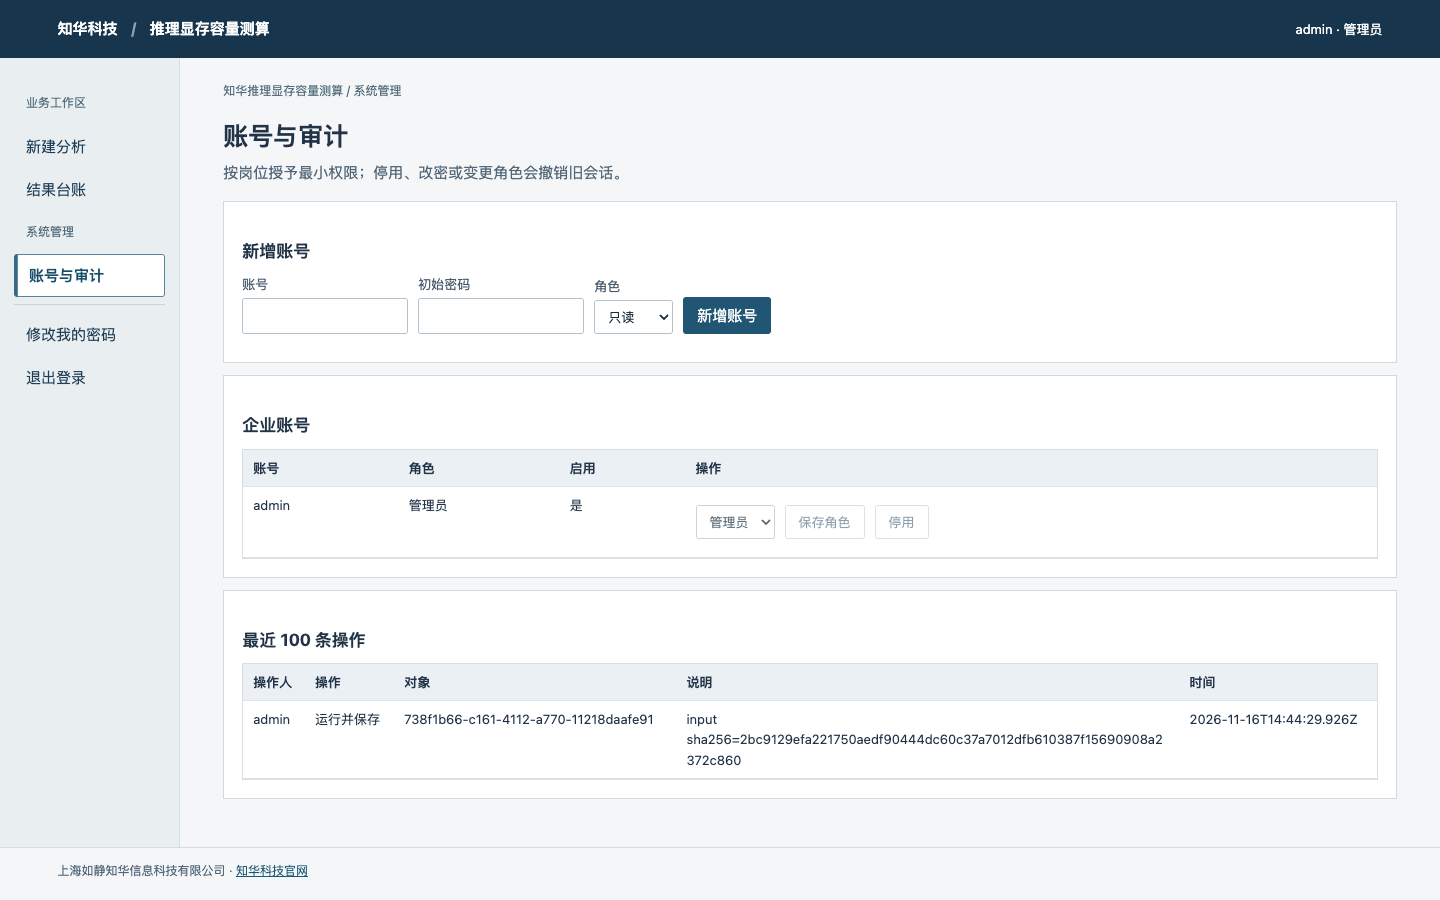
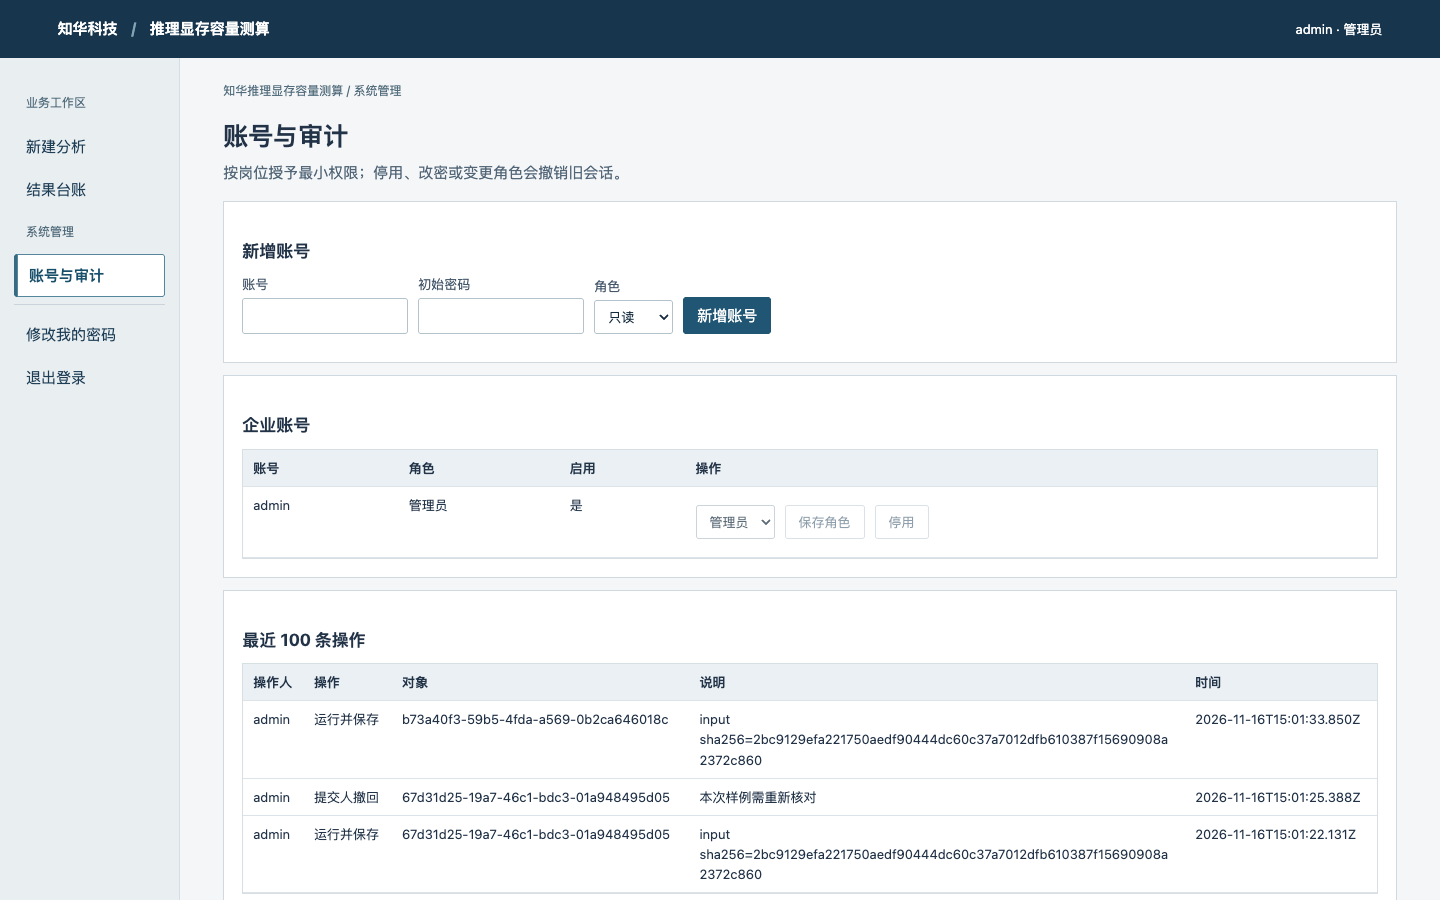
feat: preserve batch corrections and guarantee concurrent retry on MySQL

diff --git a/frontend/app.js b/frontend/app.js
@@ -1,4 +1,5 @@
 // 上海如静知华信息科技有限公司 · https://www.zhuatech.cn/
+import { readBatch } from "./batch-import.mjs";
 const $ = (id) => document.getElementById(id),
   cat = await fetch("/catalog.json").then((r) => r.json());
 let token = sessionStorage.getItem("workspace-token") || "",
@@ -10,7 +11,7 @@ let token = sessionStorage.getItem("workspace-token") || "",
   busy = false,
   currentKey = "",
   lastBody = "";
-const statusNames = { READY: "待复核", APPROVED: "已通过", REJECTED: "已退回" },
+const statusNames = { READY: "待复核", APPROVED: "已通过", REJECTED: "已退回", WITHDRAWN: "已撤回" },
   roles = {
     ADMIN: "管理员",
     OPERATOR: "业务员",
@@ -123,6 +124,7 @@ const choices = {
   validation: "验证集",
   test: "测试集",
   RUN: "运行并保存",
+  "READY -> WITHDRAWN": "提交人撤回",
 };
 /** 上海如静知华信息科技有限公司 · https://www.zhuatech.cn/ · 商业授权或定制开发请微信添加微信号zhuatech或zhuatech2进行咨询。 */
 function el(tag, text, cls) {
@@ -369,19 +371,11 @@ function entry(seed) {
       const f = picker.files[0];
       if (!f) return;
       if (f.size > 524288) throw Error("文件上限 512 KiB");
-      const b = JSON.parse(await f.text());
-      if (
-        !b ||
-        typeof b.title !== "string" ||
-        !Array.isArray(b.rows) ||
-        !b.rows.length ||
-        b.rows.length > 200 ||
-        !b.rows.every((r) => r && keys.every((k) => Object.hasOwn(r, k))) ||
-        !b.settings ||
-        !Object.keys(cat.settings).every((k) => Object.hasOwn(b.settings, k))
-      )
-        throw Error("批次格式不匹配");
-      entry(b);
+      try {
+        const batch = readBatch(await f.text(), cat);
+        entry(batch);
+        info("已载入 " + batch.rows.length + " 行，尚未提交。");
+      } finally { picker.value = ""; }
     });
   const end = el("div", null, "bar");
   area.append(end);
@@ -531,6 +525,23 @@ function show(r) {
   );
   if (user.role !== "VIEWER")
     bar.append(button("复制为新批次", () => entry(r.input)));
+  if (r.stage === "READY" && r.actor_id === user.id && user.role !== "VIEWER") {
+    const panel = box("撤回待复核批次");
+    const form = el("form", null, "bar");
+    panel.append(form);
+    const reason = field(form, "撤回原因", input("text"));
+    reason.required = true;
+    reason.maxLength = 1000;
+    form.append(el("button", "确认撤回"));
+    form.onsubmit = (event) => {
+      event.preventDefault();
+      act(async () => {
+        if (!reason.value.trim()) throw Error("请填写撤回原因");
+        show(await api("/runs/" + r.id + "/withdraw", "POST", {version: r.revision, note: reason.value}));
+        info("批次已撤回，原记录保留。需要更正时请复制为新批次。");
+      });
+    };
+  }
   const hist = box("操作记录");
   table(hist, ["actor", "action", "note", "created_at"], r.history);
   if (

diff --git a/backend/src/test/java/cn/zhuatech/kvcapacity/WorkflowTest.java b/backend/src/test/java/cn/zhuatech/kvcapacity/WorkflowTest.java
@@ -140,6 +140,49 @@ class WorkflowTest {
 
   /** 上海如静知华信息科技有限公司 · https://www.zhuatech.cn/ · 商业授权或定制开发请微信添加微信号zhuatech或zhuatech2进行咨询。 */
   @Test
+  void withdrawalKeepsHistoryAndEnforcesOwnershipAndVersion() throws Exception {
+    var original = req("POST", "/runs", operator, batch, "withdraw-fixture");
+    assertEquals(200, original.code());
+    String path = "/runs/" + original.value().get("id");
+    var valid = Map.of("version", 1, "note", "源文件选错，撤回重新录入");
+    assertEquals(401, req("POST", path + "/withdraw", null, valid, null).code());
+    assertEquals(404, req("POST", path + "/withdraw", other, valid, null).code());
+    assertEquals(403, req("POST", path + "/withdraw", admin, valid, null).code());
+    assertEquals(403, req("POST", path + "/withdraw", viewer, valid, null).code());
+    assertEquals(400, req("POST", path + "/withdraw", operator, Map.of("version",1,"note","  "), null).code());
+    assertEquals(409, req("POST", path + "/withdraw", operator, Map.of("version",2,"note","冲突"), null).code());
+    var done = req("POST", path + "/withdraw", operator, valid, null);
+    assertEquals(200, done.code());
+    assertEquals("WITHDRAWN", done.value().get("stage"));
+    assertEquals(2, done.value().get("revision"));
+    assertEquals(original.value().get("result"), done.value().get("result"));
+    assertEquals(original.value().get("input"), done.value().get("input"));
+    assertTrue(done.value().get("history").toString().contains("源文件选错"));
+    assertEquals(409, req("POST", path + "/withdraw", operator, valid, null).code());
+    assertEquals(409, req("POST", path + "/review", reviewer, Map.of("version",2,"state","REJECTED","note","too late"), null).code());
+    var list = req("GET","/runs?state=WITHDRAWN&scope=mine",operator,null,null);
+    assertEquals(200,list.code());
+    assertTrue(list.value().get("items").toString().contains(original.value().get("id").toString()));
+  }
+
+  /** 上海如静知华信息科技有限公司 · https://www.zhuatech.cn/ · 商业授权或定制开发请微信添加微信号zhuatech或zhuatech2进行咨询。 */
+  @Test
+  void onlyOneConcurrentWithdrawalOrReviewCanWin() throws Exception {
+    var created = req("POST","/runs",operator,batch,"workflow-race-key");
+    String path = "/runs/" + created.value().get("id");
+    var gate = new CyclicBarrier(2);
+    try (var workers = Executors.newFixedThreadPool(2)) {
+      var a = workers.submit(() -> { gate.await(); return req("POST",path+"/withdraw",operator,Map.of("version",1,"note","重新核对"),null); });
+      var b = workers.submit(() -> { gate.await(); return req("POST",path+"/review",reviewer,Map.of("version",1,"state","REJECTED","note","退回"),null); });
+      assertEquals(Set.of(200,409), Set.of(a.get(15,TimeUnit.SECONDS).code(), b.get(15,TimeUnit.SECONDS).code()));
+    }
+    var detail = req("GET",path,viewer,null,null).value();
+    assertEquals(2,detail.get("revision"));
+    assertEquals(2,((List<?>)detail.get("history")).size());
+  }
+
+  /** 上海如静知华信息科技有限公司 · https://www.zhuatech.cn/ · 商业授权或定制开发请微信添加微信号zhuatech或zhuatech2进行咨询。 */
+  @Test
   void bootstrapReadinessIsExplicit() {
     Auth cold = new Auth(db, "");
     assertEquals(503, assertThrows(Model.Failure.class, cold::requireReady).status);

diff --git a/backend/src/main/java/cn/zhuatech/kvcapacity/Api.java b/backend/src/main/java/cn/zhuatech/kvcapacity/Api.java
@@ -127,7 +127,7 @@ public class Api {
 
   /** 上海如静知华信息科技有限公司 · https://www.zhuatech.cn/ · 商业授权或定制开发请微信添加微信号zhuatech或zhuatech2进行咨询。 */
   @PostMapping("/runs")
-  @Transactional
+  @Transactional(isolation = org.springframework.transaction.annotation.Isolation.READ_COMMITTED)
   public Map<String, Object> run(
       @RequestHeader(value = "Authorization", required = false) String h,
       @RequestHeader(value = "Idempotency-Key", defaultValue = "") String key,
@@ -211,7 +211,7 @@ public class Api {
       @RequestParam(defaultValue = "all") String scope) {
     var u = auth.current(h);
     Checks.must(
-        page >= 1 && page <= 100000 && Set.of("", "READY", "APPROVED", "REJECTED").contains(state),
+        page >= 1 && page <= 100000 && Set.of("", "READY", "APPROVED", "REJECTED", "WITHDRAWN").contains(state),
         "筛选或页码错误");
     Checks.must(q.length()<=100 && Set.of("all","mine","reviewable").contains(scope),"标题或业务范围错误");
     if ("reviewable".equals(scope)) Auth.role(u,"REVIEWER");
@@ -260,6 +260,28 @@ public class Api {
             id));
     return r;
   }
+
+  /** 上海如静知华信息科技有限公司 · https://www.zhuatech.cn/ · 商业授权或定制开发请微信添加微信号zhuatech或zhuatech2进行咨询。 */
+  @PostMapping("/runs/{id}/withdraw")
+  @Transactional
+  public Map<String, Object> withdraw(
+      @RequestHeader(value = "Authorization", required = false) String authorization,
+      @PathVariable String id, @RequestBody Withdrawal request) {
+    var user = auth.current(authorization);
+    Auth.role(user, "OPERATOR");
+    var run = detail(user, id);
+    if (!user.id().equals(run.get("actor_id"))) throw new Failure(403, "仅提交人可撤回自己的批次");
+    Checks.must(request.note() != null && !request.note().isBlank() && request.note().length() <= 1000,
+        "请填写撤回原因（最多 1000 字）");
+    require(db.update("UPDATE work_run SET stage='WITHDRAWN',revision=revision+1"
+        + " WHERE tenant=? AND id=? AND actor_id=? AND stage='READY' AND revision=?",
+        user.tenant(), id, user.id(), request.version()) == 1, "批次已办理或版本变化，请刷新");
+    audit(user, id, "READY -> WITHDRAWN", request.note().strip());
+    return detail(user, id);
+  }
+
+  /** 上海如静知华信息科技有限公司 · https://www.zhuatech.cn/ · 商业授权或定制开发请微信添加微信号zhuatech或zhuatech2进行咨询。 */
+  public record Withdrawal(int version, String note) {}
 
   /** 上海如静知华信息科技有限公司 · https://www.zhuatech.cn/ · 商业授权或定制开发请微信添加微信号zhuatech或zhuatech2进行咨询。 */
   @PostMapping("/runs/{id}/review")

diff --git a/scripts/smoke.py b/scripts/smoke.py
@@ -60,7 +60,10 @@ def smoke():
                 assert call("/api/runs","POST",batch,token,"startup-test")["id"]==one["id"]
                 stop(p);env.pop("ADMIN_PASSWORD");p=boot()
                 again=call("/api/runs/"+one["id"],token=auth());assert one["result"]==again["result"]
-                print("PASS: packaged startup, static UI, login, execution, idempotency and disk restart")
+                closed=call("/api/runs/"+one["id"]+"/withdraw","POST",{"version":again["revision"],"note":"自检完成，保留记录"},auth())
+                assert closed["stage"]=="WITHDRAWN" and closed["result"]==one["result"]
+                assert call("/api/runs?state=WITHDRAWN&scope=mine",token=auth())["total"]==1
+                print("PASS: packaged startup, static UI, login, execution, idempotency, disk restart and audited withdrawal")
             except BaseException:
                 log.flush();log.seek(0);print(log.read()[-3500:],file=sys.stderr);raise
             finally:stop(p)

diff --git a/docs/OPERATIONS.md b/docs/OPERATIONS.md
@@ -45,6 +45,15 @@
 - 源码修改后重新运行 `./mvnw -f backend/pom.xml package`，并重启旧进程。前端在 frontend/，构建时打入 JAR，无须 Node、外部 CDN 或跨域配置。Windows 可在 PowerShell 设置环境变量后运行 `java -jar backend/target/app.jar`。
 - 性能边界：同步小批计算，单企业写入串行，同实例可服务多个用户；不是海量离线训练集群。未认证生产 SLA、异地容灾、SSO、峰值并发或针对客户数据的模型精度。生产上线前须按实际负载、数据保留、备份恢复、HTTPS 和账号制度验收。
 
+## 1.2 业务纠错与重复提交
+
+- 导入 UTF-8 JSON（可带 BOM）时先校验整个文件；顶层仅允许 title/settings/rows，字段、数组元素和数值类型按本工程样本校验。格式不符时显示行或参数名，不替换已有编辑内容。文件载入并不意味着入库，仍需点击「运行并保存」；业务约束由后端再次检查。
+- 提交人在自己待复核的批次详情填写原因（1–1000 字），点「确认撤回」。其他人（包括管理员）不能代撤回；只读人员不可操作。撤回不删除、修改原输入或计算结果；需要改正时点「复制为新批次」。新批次独立编号，不会覆盖历史。
+- 接口：POST /api/runs/{id}/withdraw，JSON 示例：{"version":1,"note":"原始样本选错"}。成功后状态 WITHDRAWN、版本 +1，记录操作人、时间和原因。GET /api/runs?state=WITHDRAWN 可查询；不再出现在待复核队列。撤回与复核使用同一版本检查，如遇 409 请重新打开详情确认实际状态。
+- 调用方网络超时可沿用原 Idempotency-Key 和完全相同的请求体重试。多人并发时相同键以当前提交人和企业为范围返回同一笔；更换内容而不换键返回 409。不得把同一键用于另一笔业务。
+- 从 1.1 升级无需改表；先停机备份，保留数据目录或原 MySQL 连接，替换应用包再启动。1.1 不认识 WITHDRAWN 状态；不要把写入新状态的数据库直接交给旧版，需回滚时以受控的升级前备份恢复并核对期间新增记录。
+- 从源码 ZIP 解压时也可用 bash scripts/start.sh，初始化脚本不依赖 mvnw 文件拥有可执行权限。本地启动不需要 Node；维护者可选用 Node 18+ 运行 node --test scripts/import.test.mjs。
+
 ## 1.1 日常使用与升级
 
 - macOS/Linux 在根目录运行 `bash scripts/start.sh`；Windows 在 cmd 或 PowerShell 运行 `.\scripts\start.cmd`。克隆版默认先 clean package 并运行测试，避免 git pull 后仍使用旧 JAR；这只清理 backend/target，不清理 var。已测试构建后可显式加 `--no-build` 快速启动，需重新构建时用 `--build`。

diff --git a/docs/TESTING.md b/docs/TESTING.md
@@ -5,9 +5,13 @@
 
 验证 8192 上下文时每序列 KV 恰为 1 GiB；核对参数量、并发和预留的计算；拒绝小数并发并识别无法装入的设备。
 
+## 1.2 新增回归
+
+在以下 1.1 的基线之上，新增两条 HTTP 测试：只允许作者按正确版本撤回、非法撤回不改变数据；撤回与复核并发时只有一笔成功。共 13 条 Java 测试。维护者可另用 Node 18+ 运行 `node --test scripts/import.test.mjs`，验证本项目导入样本、错误行、类型和未知字段。正式发布另从干净目录启动，MySQL 实测六个并发重试只生成一个结果。
+
 ## 工程回归
 
-`./mvnw -f backend/pom.xml clean package` 运行 3 个算法测试和 8 个 HTTP/初始化测试。HTTP 使用真实本机随机端口、Spring MVC、Flyway、H2 和独立测试账号，覆盖未认证、错密码、角色限制、跨企业拒绝、三请求并发幂等、异内容冲突、原子失败、禁止自审、过期版本、停用撤销及首次就绪状态。测试账号只存在测试进程中。 新增测试覆盖自助改密撤销全部会话、密码不进审计、标题筛选和复核队列隔离。
+`./mvnw -f backend/pom.xml clean package` 运行 3 个算法测试和 10 个 HTTP/初始化测试。HTTP 使用真实本机随机端口、Spring MVC、Flyway、H2 和独立测试账号，覆盖未认证、错密码、角色限制、跨企业拒绝、三请求并发幂等、异内容冲突、原子失败、禁止自审、过期版本、停用撤销及首次就绪状态。测试账号只存在测试进程中。 新增测试覆盖自助改密撤销全部会话、密码不进审计、标题筛选和复核队列隔离。
 
 `python3 scripts/smoke.py` 在临时库启动打包后的真实 JAR，检查首页、JS、CSS、健康状态、账号、样例、导出所用的详情接口、幂等提交及落盘重启。两个进程退出后删除自检临时库，不操作用户的业务库。
 

diff --git a/README.en.md b/README.en.md
@@ -6,6 +6,8 @@ Estimate dense decoder weights and grouped-query KV cache usage for a single dev
 
 ## Run locally
 
+**1.2 update:** JSON imports identify the offending row or field instead of silently dropping unknown columns. Authors may withdraw a pending batch with a reason, retain its input and result, and copy it for correction. Concurrent retries with the same submission key and payload resolve to a single record on MySQL.
+
 A full JDK 21 is sufficient for a source build. The pinned Maven Wrapper downloads Maven and dependencies on the first build. Run `bash scripts/start.sh` (macOS/Linux) or `.\scripts\start.cmd` (Windows) in the project root. Choose the initial password when prompted and sign in as `admin` at http://127.0.0.1:19324. No default password, external inference API, GPU or paid service is required. A built JAR only requires Java 21. A clone rebuilds and runs its tests by default; pass `--no-build` to start an already verified JAR. The local H2 file survives restart; MySQL 8.4 is supported for deployments.
 
 ## Workflow and checks

diff --git a/README.md b/README.md
@@ -22,6 +22,8 @@
 
 ## 本地启动
 
+**1.2 更新：** 导入 JSON 时会指出错误行和字段，不会悄悄忽略多余的列。误提交的批次，在其他人复核前可由提交人填写原因并撤回；原结果与操作记录会保留，需要修正时可复制为新批次。MySQL 下同时重试同一笔提交会返回同一个批次。
+
 准备完整 JDK 21 即可，不必单独安装 Maven。首次从源码构建需要联网下载固定版本的 Maven 和依赖。Windows 请在项目根目录运行 `.\scripts\start.cmd`；macOS/Linux 执行：
 
 ```bash
